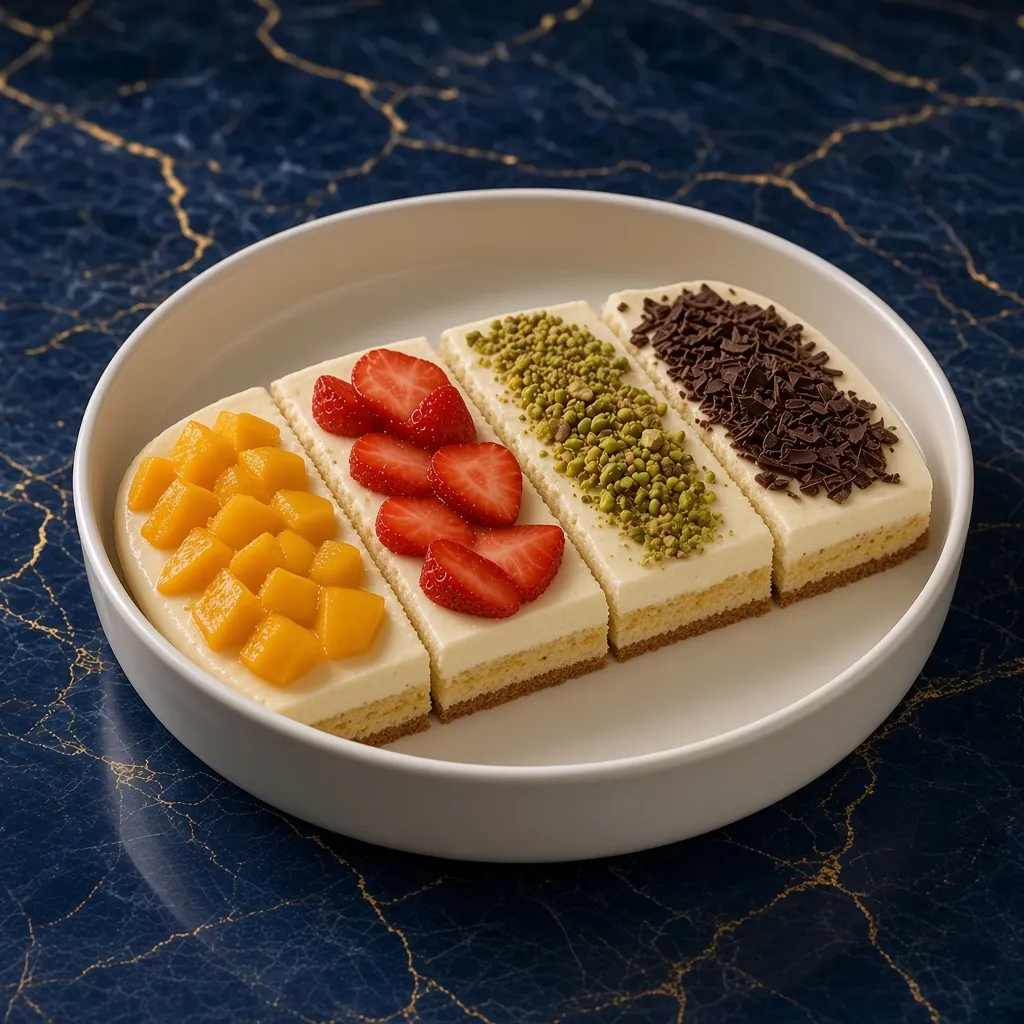
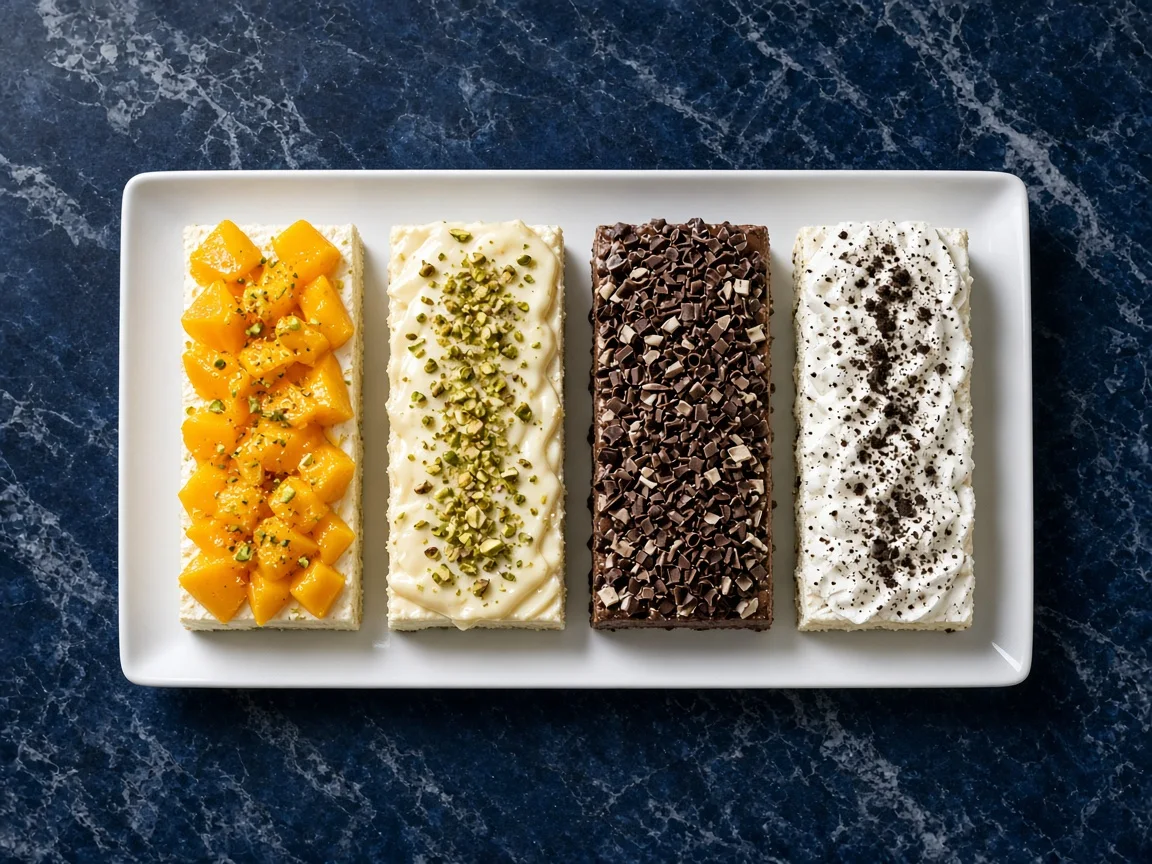
Show Qashtouta as rectangular plated slices, not round cakes.

diff --git a/style.css b/style.css
@@ -499,12 +499,12 @@ a { color: inherit; text-decoration: none; }
     display: block;
     width: 100%;
     max-width: 100%;
-    aspect-ratio: 3 / 2;
+    aspect-ratio: 4 / 3;
     height: auto !important;
     margin: 0 auto 24px;
     background: #FAF5FF;
     border: 3px solid var(--neon);
-    border-radius: 1rem;
+    border-radius: 0.75rem;
     overflow: hidden;
     flex-shrink: 0;
     box-shadow: 0 0 20px rgba(217, 70, 239, 0.35), inset 0 0 15px rgba(217, 70, 239, 0.2);
@@ -525,7 +525,7 @@ a { color: inherit; text-decoration: none; }
     padding: 0;
     object-fit: cover;
     object-position: center;
-    border-radius: 1rem;
+    border-radius: 0.75rem;
     background: #FAF5FF;
 }
 .card h4 {
@@ -841,15 +841,15 @@ fieldset { border: 0; padding: 0; margin: 0; display: grid; gap: 8px; }
 }
 .card-pack .plate,
 .card-bowl .plate {
-    aspect-ratio: 3 / 2;
+    aspect-ratio: 4 / 3;
     height: auto !important;
-    border-radius: 1rem;
+    border-radius: 0.75rem;
 }
 .card-pack img,
 .card-bowl img {
     object-fit: cover;
     object-position: center;
-    border-radius: 1rem;
+    border-radius: 0.75rem;
 }
 @media (max-width: 799px) {
     .card { padding: 16px; }

diff --git a/index.html b/index.html
@@ -9,7 +9,7 @@
     <link rel="preconnect" href="https://fonts.gstatic.com" crossorigin>
     <link href="https://fonts.googleapis.com/css2?family=Amiri:wght@700&family=Cairo:wght@700;800;900&family=Poppins:wght@500;600;700&display=swap" rel="stylesheet">
     <link rel="preload" as="image" href="images/hero/hero-qashtota.jpg" type="image/jpeg">
-    <link rel="stylesheet" href="style.css?v=49">
+    <link rel="stylesheet" href="style.css?v=50">
 </head>
 <body>
     <div class="topbar">
@@ -206,6 +206,6 @@
         </a>
     </div>
 
-    <script src="script.js?v=49" defer></script>
+    <script src="script.js?v=50" defer></script>
 </body>
 </html>

diff --git a/script.js b/script.js
@@ -112,7 +112,7 @@ function tickCountdown() {
 
 function plateSrc(cat, item) {
     const src = (item.image || cat.image).replace(/\.jpe?g$/i, ".webp");
-    return item.image ? src + "?v=49" : src;
+    return item.image ? src + "?v=50" : src;
 }
 
 function findItem(id) {
